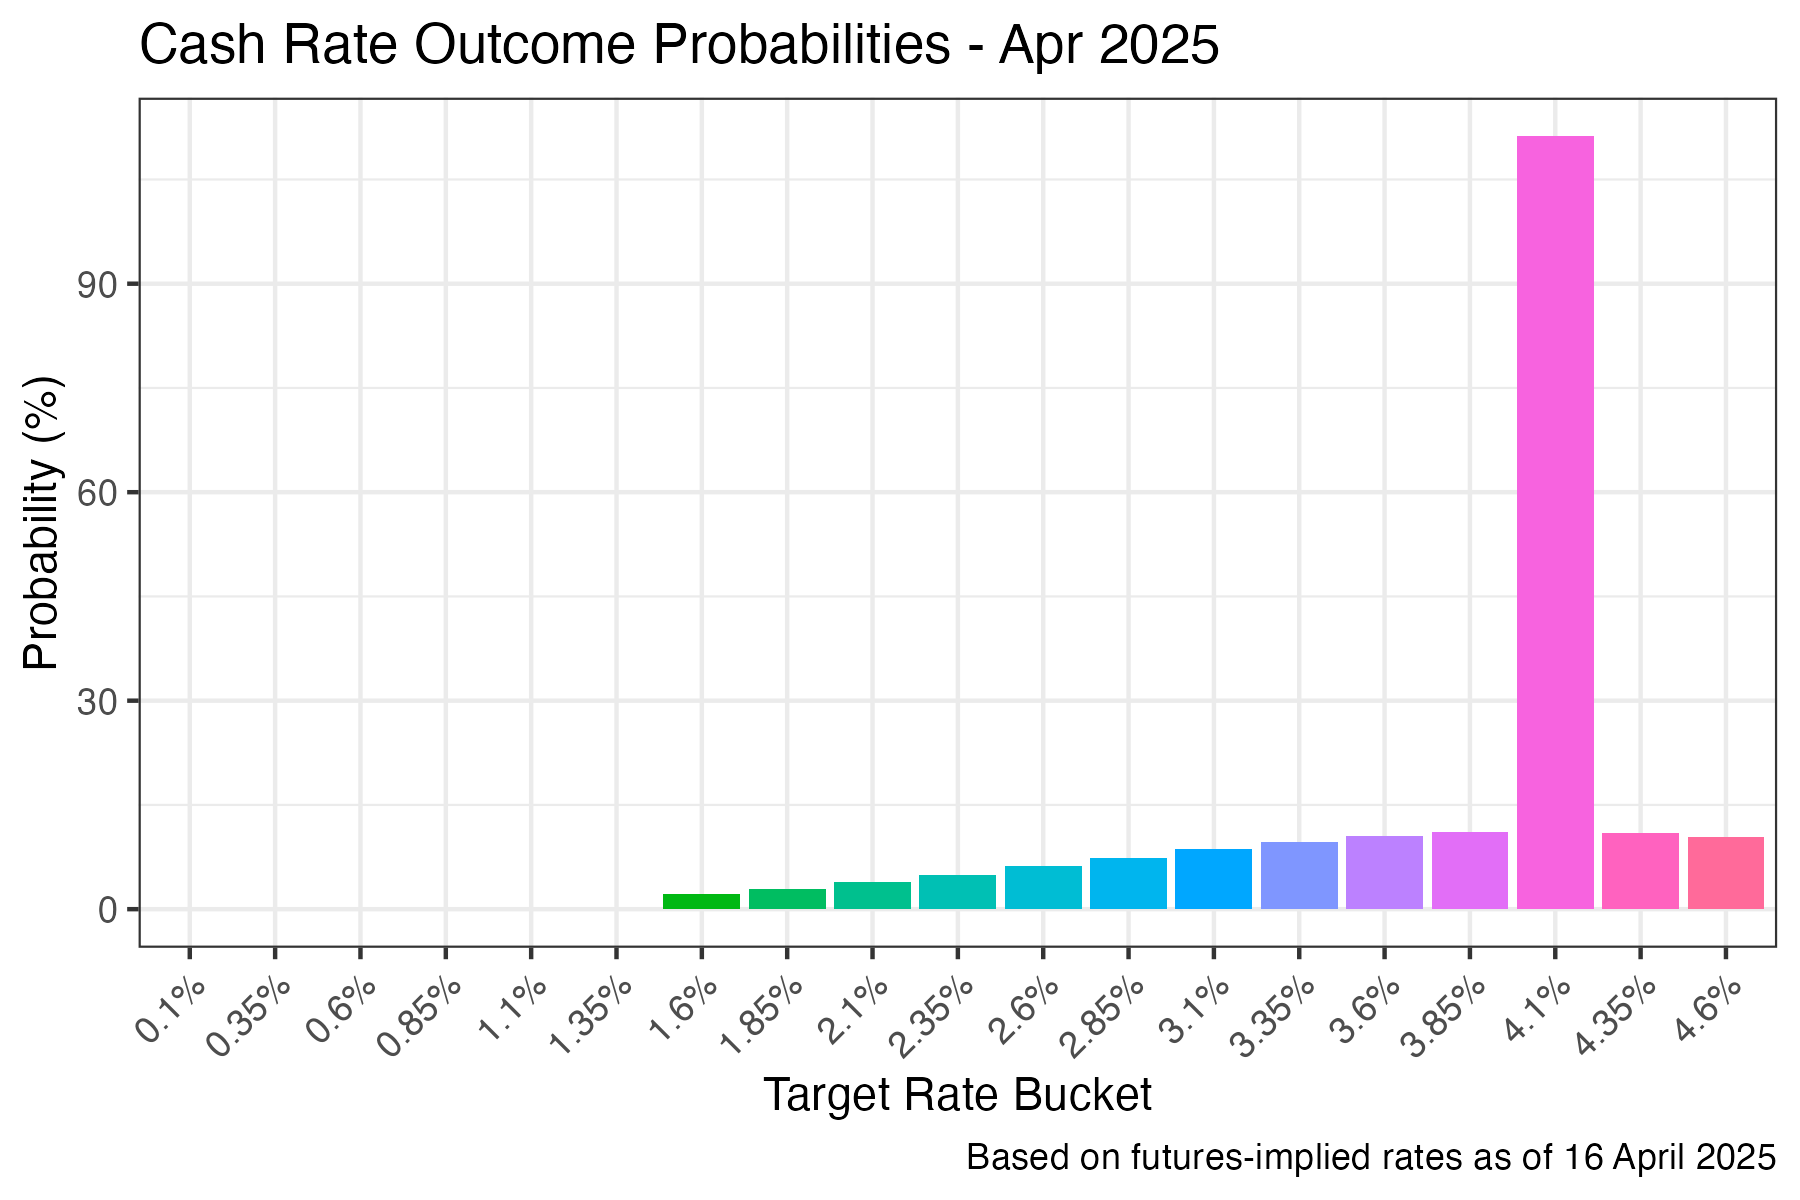
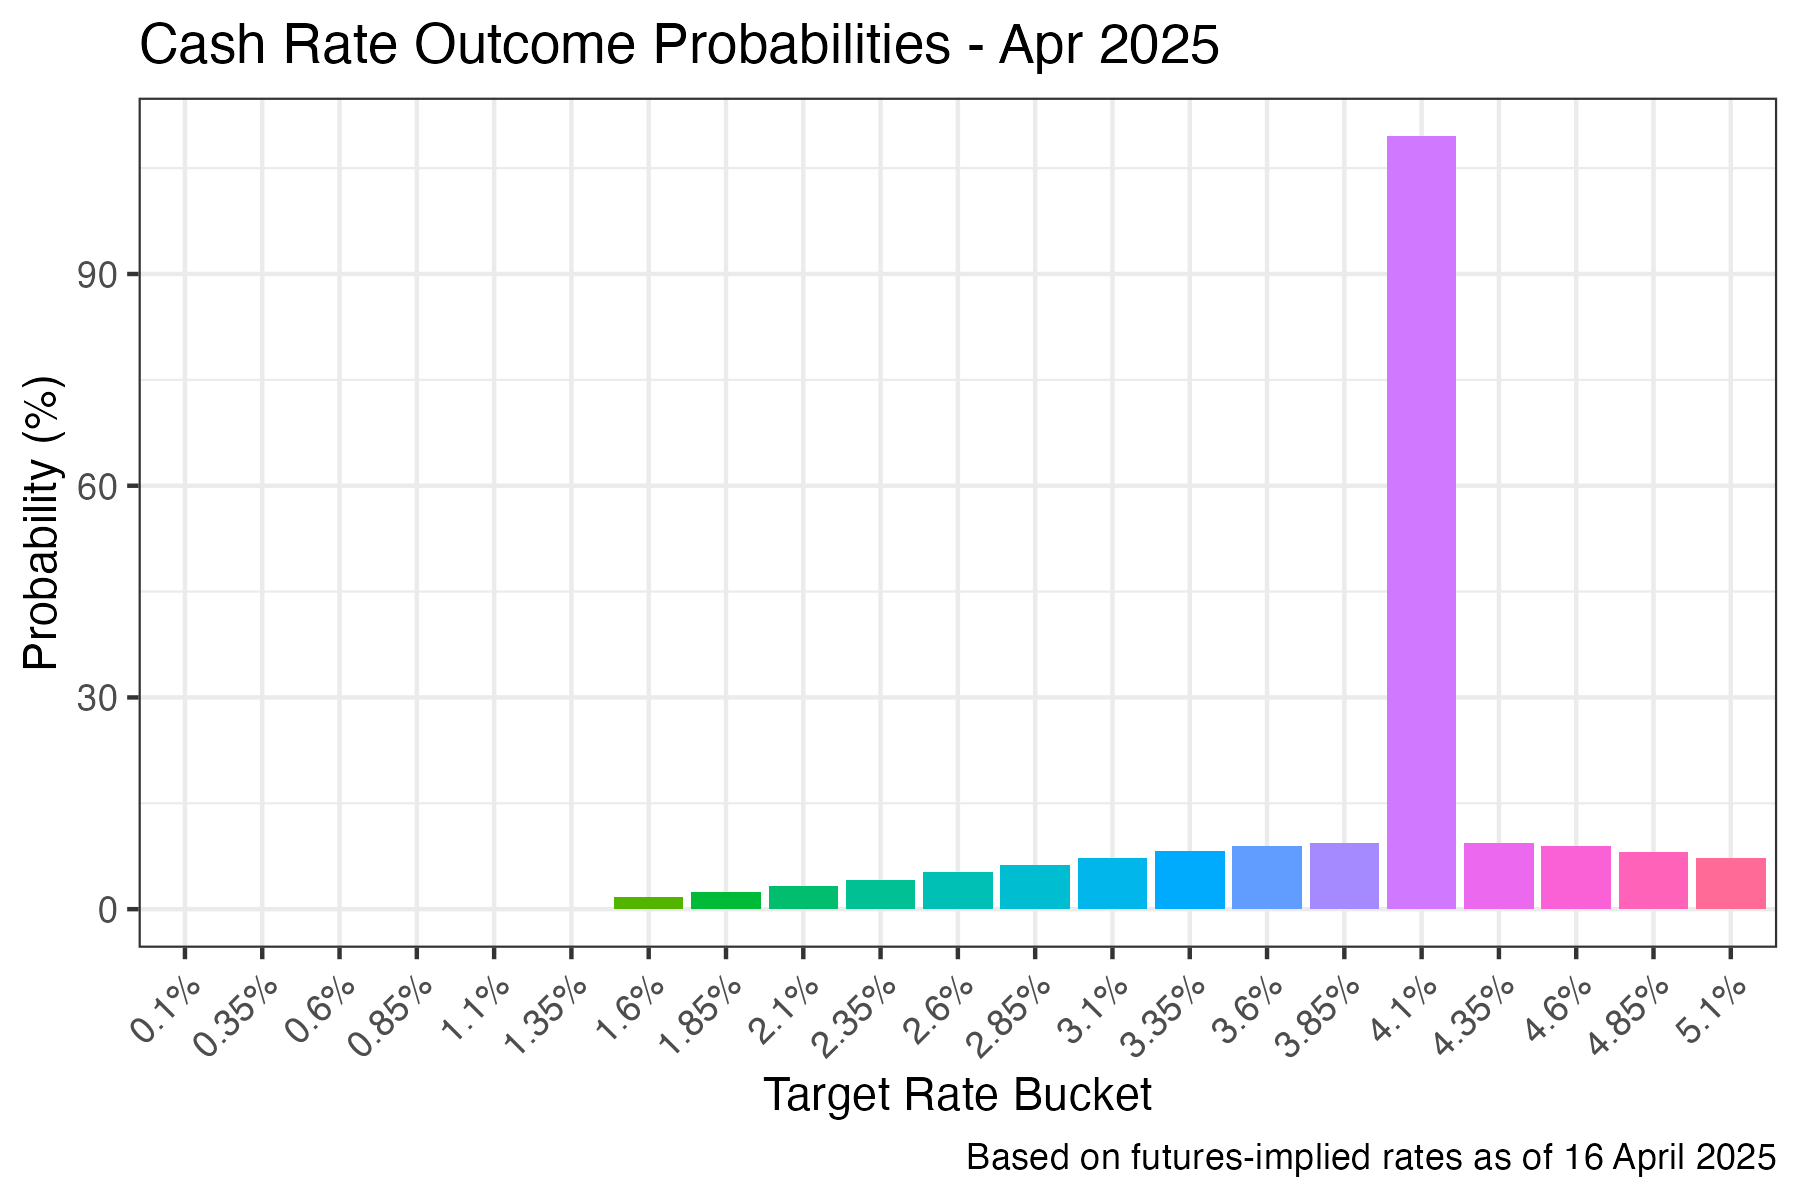
refreshing data

diff --git a/README.html b/README.html
@@ -622,7 +622,7 @@ repo.</p>
 <h1 id="graphs">Graphs!</h1>
 <p>The file <code>R/viz_cash_rate.R</code> produces visualisations of
 this data, which are shown below:</p>
-<pre><code>#&gt; # A tibble: 266 × 4
+<pre><code>#&gt; # A tibble: 294 × 4
 #&gt;    date       bucket probability month_label
 #&gt;    &lt;date&gt;     &lt;chr&gt;        &lt;dbl&gt; &lt;chr&gt;      
 #&gt;  1 2025-04-01 0.1%             0 Apr 2025   
@@ -635,24 +635,24 @@ this data, which are shown below:</p>
 #&gt;  8 2025-04-01 1.85%            0 Apr 2025   
 #&gt;  9 2025-04-01 2.1%             0 Apr 2025   
 #&gt; 10 2025-04-01 2.35%            0 Apr 2025   
-#&gt; # ℹ 256 more rows
+#&gt; # ℹ 284 more rows
 #&gt; [1] &quot;Apr 2025&quot;
-#&gt; Warning: Removed 19 rows containing missing values or values outside the scale range
+#&gt; Warning: Removed 21 rows containing missing values or values outside the scale range
 #&gt; (`geom_bar()`).
 #&gt; [1] &quot;May 2025&quot;
-#&gt; Warning: Removed 19 rows containing missing values or values outside the scale range
+#&gt; Warning: Removed 21 rows containing missing values or values outside the scale range
 #&gt; (`geom_bar()`).
 #&gt; [1] &quot;Jul 2025&quot;
-#&gt; Warning: Removed 19 rows containing missing values or values outside the scale range
+#&gt; Warning: Removed 21 rows containing missing values or values outside the scale range
 #&gt; (`geom_bar()`).
 #&gt; [1] &quot;Aug 2025&quot;
-#&gt; Warning: Removed 19 rows containing missing values or values outside the scale range
+#&gt; Warning: Removed 21 rows containing missing values or values outside the scale range
 #&gt; (`geom_bar()`).
 #&gt; [1] &quot;Sep 2025&quot;
-#&gt; Warning: Removed 19 rows containing missing values or values outside the scale range
+#&gt; Warning: Removed 21 rows containing missing values or values outside the scale range
 #&gt; (`geom_bar()`).
 #&gt; [1] &quot;Nov 2025&quot;
-#&gt; Warning: Removed 19 rows containing missing values or values outside the scale range
+#&gt; Warning: Removed 21 rows containing missing values or values outside the scale range
 #&gt; (`geom_bar()`).
 #&gt; [1] &quot;Dec 2025&quot;
 #&gt; Warning: Using `size` aesthetic for lines was deprecated in ggplot2 3.4.0.
@@ -660,7 +660,7 @@ this data, which are shown below:</p>
 #&gt; This warning is displayed once every 8 hours.
 #&gt; Call `lifecycle::last_lifecycle_warnings()` to see where this warning was
 #&gt; generated.
-#&gt; # A tibble: 243 × 3
+#&gt; # A tibble: 189 × 3
 #&gt;    scrape_date bucket probability
 #&gt;    &lt;date&gt;      &lt;chr&gt;        &lt;dbl&gt;
 #&gt;  1 2025-04-03  0.10%    1.56e-159
@@ -684,16 +684,16 @@ this data, which are shown below:</p>
 #&gt; 19 2025-04-03  4.60%    5.02e-  6
 #&gt; 20 2025-04-03  4.85%    1.95e- 10
 #&gt; 21 2025-04-03  5.10%    2.22e- 16
-#&gt; 22 2025-04-03  5.35%    0        
-#&gt; 23 2025-04-03  5.60%    0        
-#&gt; 24 2025-04-03  5.85%    0        
-#&gt; 25 2025-04-03  6.10%    0        
-#&gt; 26 2025-04-03  6.35%    0        
-#&gt; 27 2025-04-03  6.60%    0        
-#&gt; 28 2025-04-04  0.10%    3.55e-153
-#&gt; 29 2025-04-04  0.35%    8.08e-133
-#&gt; 30 2025-04-04  0.60%    6.23e-114
-#&gt; # ℹ 213 more rows</code></pre>
+#&gt; 22 2025-04-04  0.10%    3.55e-153
+#&gt; 23 2025-04-04  0.35%    8.08e-133
+#&gt; 24 2025-04-04  0.60%    6.23e-114
+#&gt; 25 2025-04-04  0.85%    1.63e- 96
+#&gt; 26 2025-04-04  1.10%    1.45e- 80
+#&gt; 27 2025-04-04  1.35%    4.37e- 66
+#&gt; 28 2025-04-04  1.60%    4.49e- 53
+#&gt; 29 2025-04-04  1.85%    1.58e- 41
+#&gt; 30 2025-04-04  2.10%    1.90e- 31
+#&gt; # ℹ 159 more rows</code></pre>
 
 </body>
 </html>

diff --git a/README.md b/README.md
@@ -29,7 +29,7 @@ Please fork/copy/modify as you see fit.
 The file `R/viz_cash_rate.R` produces visualisations of this data, which
 are shown below:
 
-    #> # A tibble: 266 × 4
+    #> # A tibble: 294 × 4
     #>    date       bucket probability month_label
     #>    <date>     <chr>        <dbl> <chr>      
     #>  1 2025-04-01 0.1%             0 Apr 2025   
@@ -42,24 +42,24 @@ are shown below:
     #>  8 2025-04-01 1.85%            0 Apr 2025   
     #>  9 2025-04-01 2.1%             0 Apr 2025   
     #> 10 2025-04-01 2.35%            0 Apr 2025   
-    #> # ℹ 256 more rows
+    #> # ℹ 284 more rows
     #> [1] "Apr 2025"
-    #> Warning: Removed 19 rows containing missing values or values outside the scale range
+    #> Warning: Removed 21 rows containing missing values or values outside the scale range
     #> (`geom_bar()`).
     #> [1] "May 2025"
-    #> Warning: Removed 19 rows containing missing values or values outside the scale range
+    #> Warning: Removed 21 rows containing missing values or values outside the scale range
     #> (`geom_bar()`).
     #> [1] "Jul 2025"
-    #> Warning: Removed 19 rows containing missing values or values outside the scale range
+    #> Warning: Removed 21 rows containing missing values or values outside the scale range
     #> (`geom_bar()`).
     #> [1] "Aug 2025"
-    #> Warning: Removed 19 rows containing missing values or values outside the scale range
+    #> Warning: Removed 21 rows containing missing values or values outside the scale range
     #> (`geom_bar()`).
     #> [1] "Sep 2025"
-    #> Warning: Removed 19 rows containing missing values or values outside the scale range
+    #> Warning: Removed 21 rows containing missing values or values outside the scale range
     #> (`geom_bar()`).
     #> [1] "Nov 2025"
-    #> Warning: Removed 19 rows containing missing values or values outside the scale range
+    #> Warning: Removed 21 rows containing missing values or values outside the scale range
     #> (`geom_bar()`).
     #> [1] "Dec 2025"
     #> Warning: Using `size` aesthetic for lines was deprecated in ggplot2 3.4.0.
@@ -67,7 +67,7 @@ are shown below:
     #> This warning is displayed once every 8 hours.
     #> Call `lifecycle::last_lifecycle_warnings()` to see where this warning was
     #> generated.
-    #> # A tibble: 243 × 3
+    #> # A tibble: 189 × 3
     #>    scrape_date bucket probability
     #>    <date>      <chr>        <dbl>
     #>  1 2025-04-03  0.10%    1.56e-159
@@ -91,13 +91,13 @@ are shown below:
     #> 19 2025-04-03  4.60%    5.02e-  6
     #> 20 2025-04-03  4.85%    1.95e- 10
     #> 21 2025-04-03  5.10%    2.22e- 16
-    #> 22 2025-04-03  5.35%    0        
-    #> 23 2025-04-03  5.60%    0        
-    #> 24 2025-04-03  5.85%    0        
-    #> 25 2025-04-03  6.10%    0        
-    #> 26 2025-04-03  6.35%    0        
-    #> 27 2025-04-03  6.60%    0        
-    #> 28 2025-04-04  0.10%    3.55e-153
-    #> 29 2025-04-04  0.35%    8.08e-133
-    #> 30 2025-04-04  0.60%    6.23e-114
-    #> # ℹ 213 more rows
+    #> 22 2025-04-04  0.10%    3.55e-153
+    #> 23 2025-04-04  0.35%    8.08e-133
+    #> 24 2025-04-04  0.60%    6.23e-114
+    #> 25 2025-04-04  0.85%    1.63e- 96
+    #> 26 2025-04-04  1.10%    1.45e- 80
+    #> 27 2025-04-04  1.35%    4.37e- 66
+    #> 28 2025-04-04  1.60%    4.49e- 53
+    #> 29 2025-04-04  1.85%    1.58e- 41
+    #> 30 2025-04-04  2.10%    1.90e- 31
+    #> # ℹ 159 more rows
